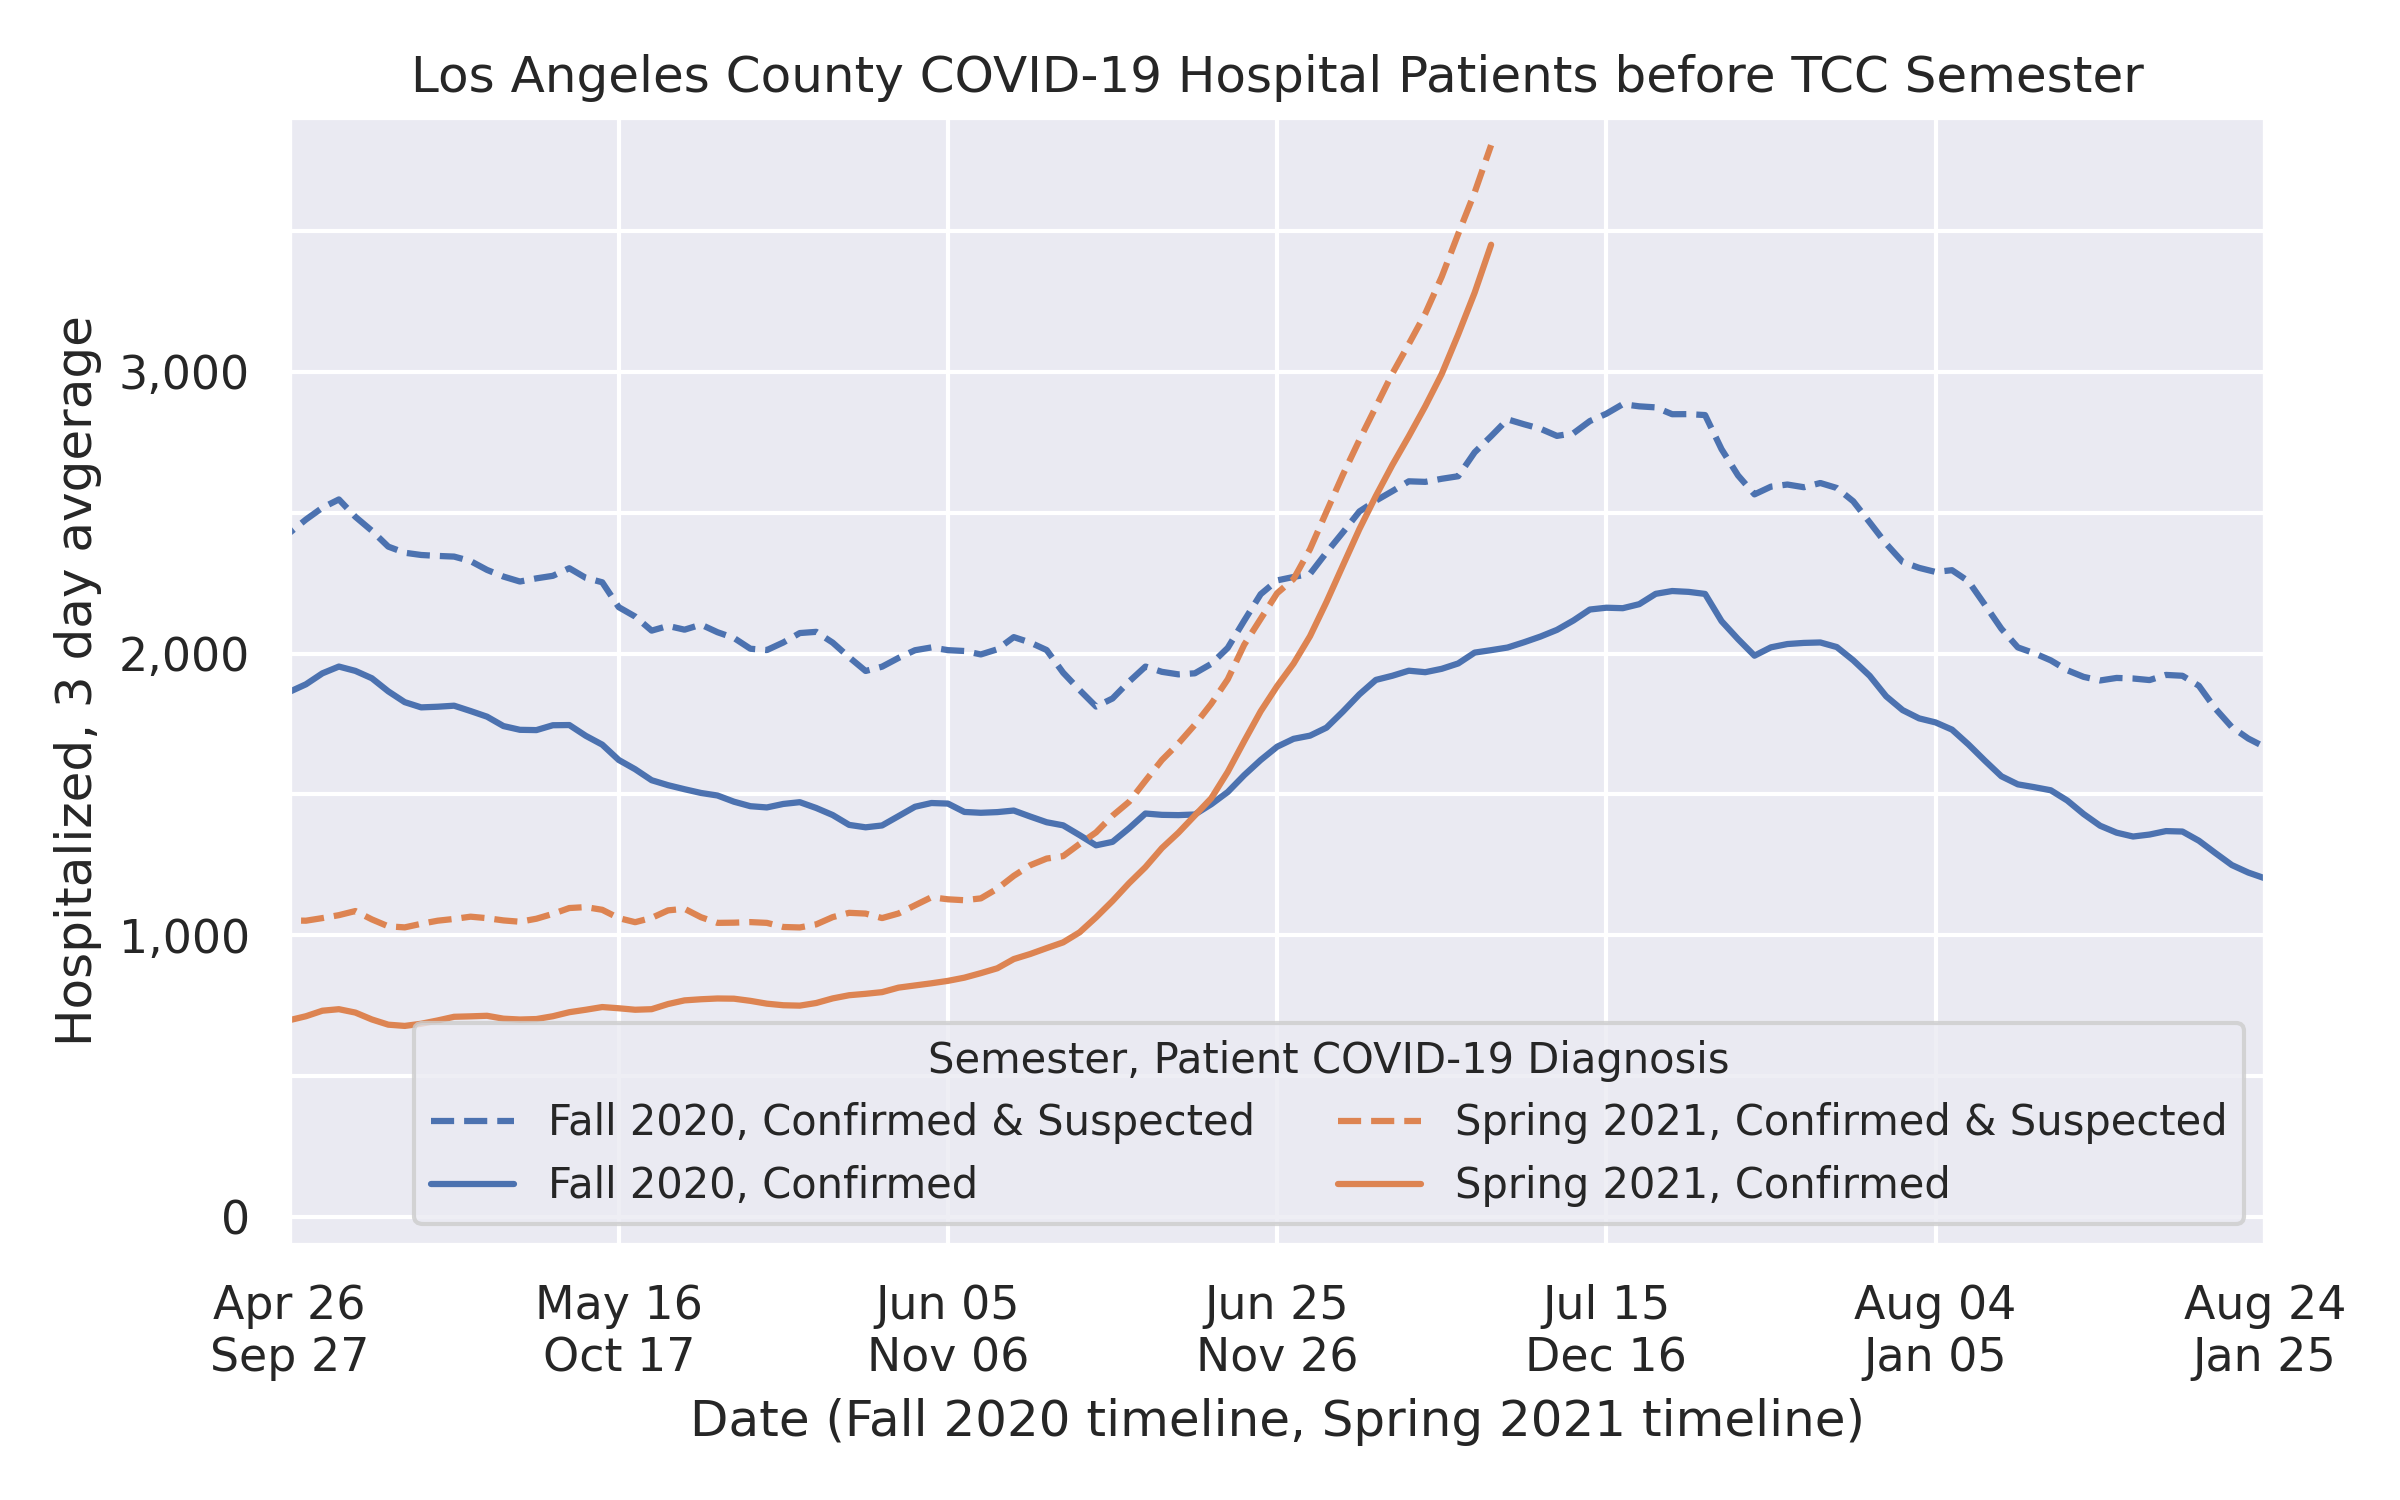
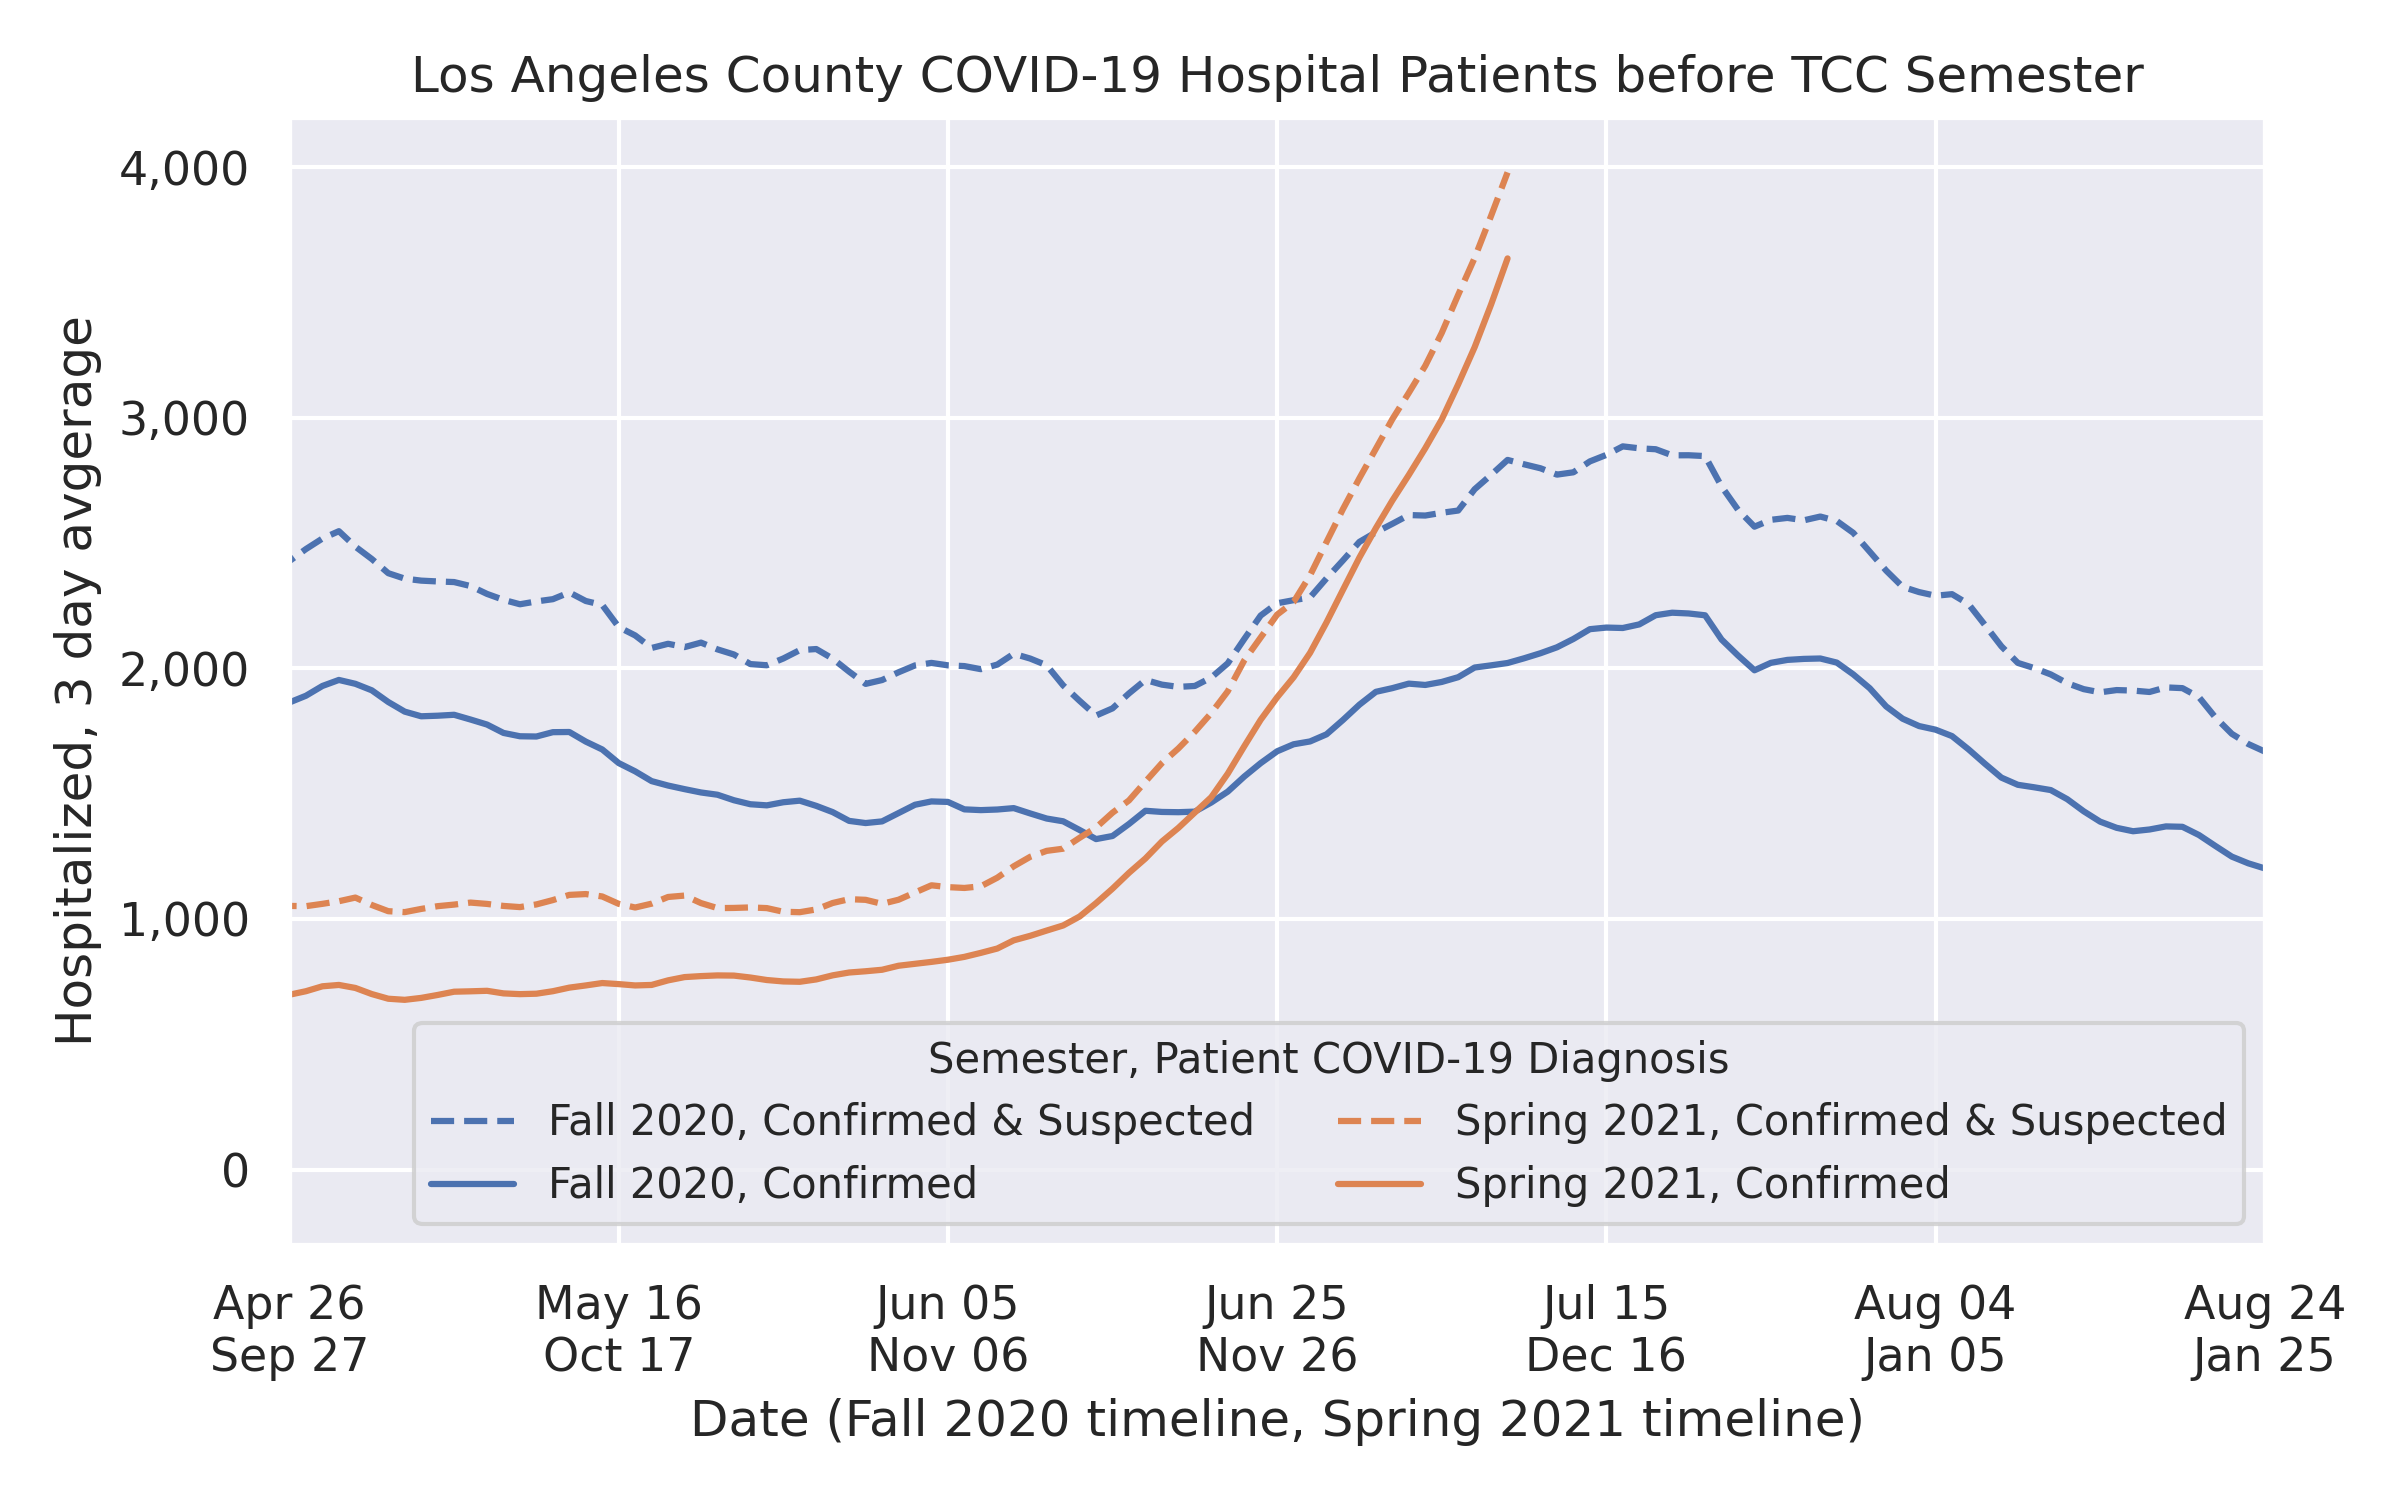
Improved y axis scaling

diff --git a/semester_start_countdown.py b/semester_start_countdown.py
@@ -79,6 +79,13 @@ def date_axis_text(x, pos):
         (semester-td).strftime('%b %d') for semester in (FALL_2020_START, SPRING_2021_START)]
     return ('{}\n{}'.format(fall_equiv, spring_equiv))
 
+def chart_upper_bound(dep_var_series, tick_step, buffer):
+    ticks_needed = (dep_var_series.max() + tick_step) // tick_step
+    return int(tick_step * ticks_needed + buffer)
+
+def chart_lower_bound(upper_bound, ratio, top_value):
+    return (ratio * upper_bound - top_value) / (ratio - 1)
+
 
 # In[ ]:
 
@@ -146,7 +153,7 @@ df_la = df_la.loc[:, (DATE, SEMESTER, DAYS_UNTIL_SEMESTER,
 # In[ ]:
 
 
-fig, ax = plt.subplots(figsize=(8, 5), dpi=300)
+fig, ax = plt.subplots(figsize=(8, 5.5), dpi=300)
 
 rate_multiplier = (10_257_557 / 1e5) / 0.642
 substantial_rate, moderate_rate = [rate_multiplier * x for x in (7, 4)]
@@ -156,10 +163,11 @@ moderate_color = '#d97641'
 widespread_message = 'Closed for in-person lectures'
 substantial_message, moderate_message = [
     'Lecture capacity limited to {}%'.format(x) for x in (25, 50)]
-vertical_pad = 50
+vertical_pad = 100
 horizontal_pad = 1.5
 alpha = 0.75
-ax.text(horizontal_pad, substantial_rate+50, widespread_message, ha='right', color=widespread_color, alpha=alpha)
+ax.text(horizontal_pad, substantial_rate+vertical_pad, widespread_message,
+        ha='right', color=widespread_color, alpha=alpha)
 ax.axhline(substantial_rate, color=substantial_color, linestyle='dashed', alpha=alpha)
 ax.text(horizontal_pad, substantial_rate-vertical_pad, substantial_message,
         ha='right', va='top', color=substantial_color, alpha=alpha)
@@ -170,15 +178,17 @@ ax.text(horizontal_pad, substantial_rate-vertical_pad, substantial_message,
 ax.set_title('Los Angeles County COVID-19 Transmission before TCC Semester')
 sns.lineplot(x=DAYS_UNTIL_SEMESTER, y=NEW_CASES_AVG, hue=SEMESTER, data=df_la, ax=ax)
 
-ax.set_yticks(list(range(0, int(df_la[NEW_CASES_AVG].max())+500, 500)))
-ax.set_yticklabels([f'{int(x):n}' if x%1e3==0 else '' for x in ax.get_yticks()])
+tick_step = 1000
+y_max = chart_upper_bound(df_la[NEW_CASES_AVG], tick_step, 200)
+ax.set_yticks(list(range(0, y_max, tick_step)))
+ax.set_yticklabels([f'{int(x):n}' if x%2e3==0 else '' for x in ax.get_yticks()])
 
 ax.set_xlabel(X_AXIS_LABEL)
 ax.set_ylabel(NEW_CASES_AVG)
 ax.set_xlim(120, 0)
 ax.xaxis.set_major_formatter(FuncFormatter(date_axis_text))
 # ax.set_ylim(moderate_rate-vertical_pad-250, df_la[NEW_CASES_AVG].max()+100)
-ax.set_ylim(600, df_la[NEW_CASES_AVG].max()+100)
+ax.set_ylim(600, y_max)
 ax.legend(loc='upper left', title=SEMESTER)
 
 fig.savefig('docs/semester-start-v-new-cases.png')
@@ -198,7 +208,9 @@ ax.plot(DAYS_UNTIL_SEMESTER, HOSPITALIZED_ALL_AVG, '--', color=sns.color_palette
 ax.plot(DAYS_UNTIL_SEMESTER, HOSPITALIZED_CONFIRMED_AVG, color=sns.color_palette()[1], label='Spring 2021, Confirmed',
         data=df_la[df_la[SEMESTER] == SPRING_2021])
 
-ax.set_yticks(list(range(0, int(df_la[HOSPITALIZED_ALL_AVG].max()+500), 500)))
+tick_step = 1000
+y_max = chart_upper_bound(df_la[HOSPITALIZED_ALL_AVG], tick_step, 200)
+ax.set_yticks(list(range(0, y_max, tick_step)))
 ax.set_yticklabels([f'{int(x):n}' if x%1e3==0 else '' for x in ax.get_yticks()])
 
 ax.set_xlabel(X_AXIS_LABEL)
@@ -206,7 +218,10 @@ ax.xaxis.set_major_formatter(FuncFormatter(date_axis_text))
 ax.set_ylabel('Hospitalized, 3 day avgerage')
 ax.set_title('Los Angeles County COVID-19 Hospital Patients before TCC Semester')
 ax.set_xlim(120, 0)
-ax.set_ylim(-100, df_la[HOSPITALIZED_ALL_AVG].max()+100)
+
+legend_top = 600
+# ax.axhline(legend_top, color='k')
+ax.set_ylim(chart_lower_bound(y_max, .2, legend_top), y_max)
 
 ax.legend(title='Semester, Patient COVID-19 Diagnosis', loc='lower right',
           ncol=2, fontsize='small', title_fontsize='small')
